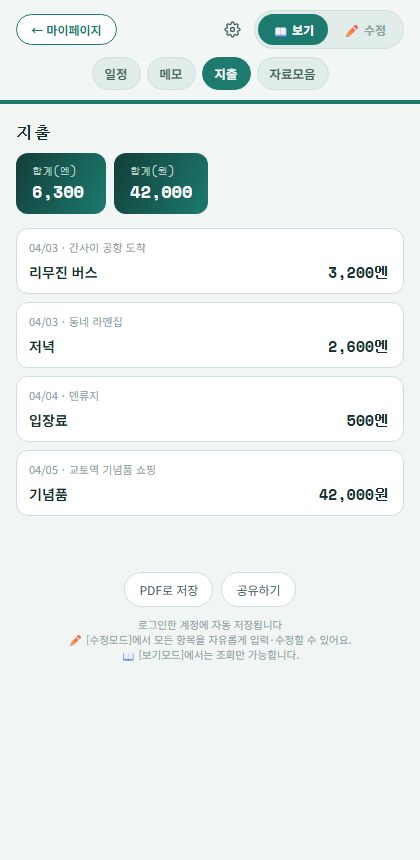
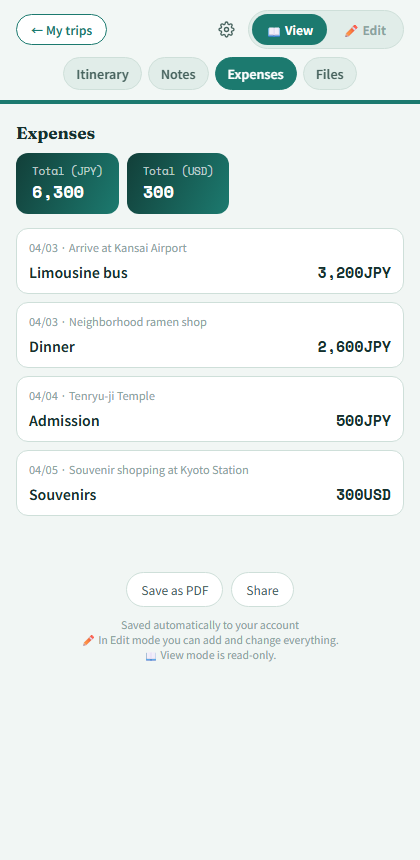
fix: 가이드 버튼 노출 강화, 언어 전환 버그 수정, 영문 데모 화면 전면 교체 + 호버 인터랙션 추가
- 랜딩 화면 "사용 가이드 보기"를 Google 로그인 버튼 옆 동급 버튼으로 격상
- 가이드 사이트 언어 전환 버튼("한국어")이 좁은 화면에서 글자 중간에
  줄바꿈되던 문제 수정 (white-space:nowrap 누락)
- 영문 가이드 화면이 UI만 영어고 내용은 한국어 그대로였던 문제 발견 —
  완전한 영문 데모 데이터(인물명·장소·통화)로 재생성. 겸사겸사 landing
  스크린샷이 실제로는 로그인 후 마이페이지 화면이 캡처되어 있던 버그도
  같이 발견해 실제 로그인 전 화면으로 교체
- 데스크톱 마우스 사용자를 위한 호버 피드백 추가 (버튼·탭·카드·아이콘
  버튼 등) — prefers 터치 기기 오작동 방지를 위해 @media (hover:hover)
  and (pointer:fine)로 한정. 눌림 피드백도 0.97→0.95로 강화

diff --git a/index.html b/index.html
@@ -63,7 +63,16 @@
   @keyframes riseIn{ from{ opacity:0; transform:translateY(6px); } to{ opacity:1; transform:translateY(0); } }
   .just-added{ animation:riseIn var(--dur-m) var(--ease); }
   button:not(:disabled){ transition:transform var(--dur-s) var(--ease); }
-  button:not(:disabled):active{ transform:scale(.97); }
+  button:not(:disabled):active{ transform:scale(.95); }
+  @media (hover:hover) and (pointer:fine){
+    button:not(:disabled):hover{ filter:brightness(.96); }
+    .tab:not(.active):hover{ background:var(--line); }
+    .mode-seg-opt:hover{ background:var(--line); }
+    .icon-btn:hover{ background:var(--paper-2); border-radius:50%; }
+    .mp-card:hover{ border-color:var(--teal); box-shadow:0 6px 16px rgba(0,0,0,.08); }
+    .set-row:hover{ background:var(--paper-2); }
+    .mp-new:hover{ box-shadow:0 4px 12px rgba(0,0,0,.1); transform:translateY(-1px); }
+  }
   *{box-sizing:border-box; -webkit-tap-highlight-color:transparent;}
   html,body{margin:0; padding:0;}
   body{
@@ -469,6 +478,13 @@
   }
   .landing-feats li svg{width:16px; height:16px; flex:none; stroke:#6FE0D0; fill:none; stroke-width:2; stroke-linecap:round; stroke-linejoin:round;}
   .landing-login{border:none; background:#fff; color:#0F1C3E; border-radius:999px; padding:14px 28px; font-size:14px; font-weight:700; cursor:pointer;}
+  .landing-guide-link{
+    display:inline-block; margin-top:14px; padding:10px 22px;
+    border:1px solid rgba(255,255,255,.45); border-radius:999px;
+    color:#fff; font-size:13px; font-weight:600; text-decoration:none;
+    transition:background var(--dur-m) var(--ease), border-color var(--dur-m) var(--ease);
+  }
+  .landing-guide-link:hover{ background:rgba(255,255,255,.1); border-color:rgba(255,255,255,.75); }
   .legal{padding-top:16px; padding-bottom:60px;}
   .legal-title{font-family:'Fraunces',serif; font-size:20px; font-weight:700; color:var(--ink); margin:6px 0 14px;}
   .legal-body{font-size:13px; line-height:1.75; color:var(--ink-soft);}
@@ -676,9 +692,9 @@
     </ul>
     <div class="landing-cta">
       <button id="landingLoginBtn" class="landing-login" data-action="login" data-i18n="landing.login">Google로 계속하기</button>
+      <a class="landing-guide-link" href="guide/" target="_blank" rel="noopener" data-i18n="landing.guideLink">사용 가이드 보기</a>
       <p class="landing-consent"><span data-i18n="landing.consent.pre">계속하면 </span><a data-action="open-legal" data-doc="terms" data-i18n="settings.legal.terms">이용약관</a><span data-i18n="landing.consent.mid"> 및 </span><a data-action="open-legal" data-doc="privacy" data-i18n="settings.legal.privacy">개인정보처리방침</a><span data-i18n="landing.consent.post">에 동의하게 됩니다.</span></p>
       <div class="landing-foot">
-        <a class="landing-guide-link" href="guide/" target="_blank" rel="noopener" data-i18n="landing.guideLink">사용 가이드 보기</a>
         <div class="landing-copy">© 2026 Travel Template</div>
       </div>
     </div>

diff --git a/guide/style.css b/guide/style.css
@@ -5,6 +5,7 @@
   --paper:#F1F6F4; --paper-2:#E1EDE9; --line:#CEDFD9; --card:#FFFFFF;
   --fill-strong:linear-gradient(115deg,#123F39 0%,#1C7A6F 100%);
   --maxw:760px;
+  --dur-m:200ms; --ease:cubic-bezier(.4,0,.2,1);
 }
 *{box-sizing:border-box;}
 html{scroll-behavior:smooth;}
@@ -31,7 +32,7 @@ img{max-width:100%; display:block; border-radius:14px;}
 }
 .g-brand img{width:26px; height:26px; border-radius:6px;}
 .g-nav-right{display:flex; align-items:center; gap:14px; font-size:13px;}
-.g-lang-switch{color:var(--ink-soft); text-decoration:none; border:1px solid var(--line); border-radius:999px; padding:5px 12px;}
+.g-lang-switch{color:var(--ink-soft); text-decoration:none; border:1px solid var(--line); border-radius:999px; padding:5px 12px; white-space:nowrap; flex:none;}
 .g-cta{
   background:var(--fill-strong); color:#fff; text-decoration:none;
   padding:8px 16px; border-radius:999px; font-weight:600; font-size:13px;
@@ -50,6 +51,7 @@ img{max-width:100%; display:block; border-radius:14px;}
 .g-btn{
   display:inline-block; text-decoration:none; padding:12px 22px; border-radius:12px;
   font-weight:700; font-size:14.5px;
+  transition:filter var(--dur-m) var(--ease), border-color var(--dur-m) var(--ease);
 }
 .g-btn-solid{background:var(--fill-strong); color:#fff;}
 .g-btn-ghost{background:var(--card); color:var(--ink); border:1px solid var(--line);}
@@ -58,9 +60,18 @@ img{max-width:100%; display:block; border-radius:14px;}
   display:grid; grid-template-columns:repeat(auto-fit,minmax(200px,1fr)); gap:14px;
   margin:32px 0;
 }
-.g-feat{background:var(--card); border:1px solid var(--line); border-radius:16px; padding:18px;}
+.g-feat{
+  background:var(--card); border:1px solid var(--line); border-radius:16px; padding:18px;
+  transition:border-color var(--dur-m) var(--ease), box-shadow var(--dur-m) var(--ease);
+}
 .g-feat h3{margin:0 0 6px; font-size:15px;}
 .g-feat p{margin:0; color:var(--ink-soft); font-size:13.5px;}
+
+@media (hover:hover) and (pointer:fine){
+  .g-btn:hover{ filter:brightness(.95); }
+  .g-feat:hover{ border-color:var(--teal); box-shadow:0 6px 16px -6px rgba(22,48,45,.18); }
+  .g-theme-card:hover{ border-color:var(--teal); box-shadow:0 6px 16px -6px rgba(22,48,45,.18); }
+}
 
 article.g-article{padding:36px 20px 60px;}
 article.g-article h1{
@@ -87,7 +98,7 @@ article.g-article .g-note{
   display:grid; grid-template-columns:repeat(auto-fit,minmax(140px,1fr)); gap:12px;
   margin:20px 0 28px;
 }
-.g-theme-card{background:var(--card); border:1px solid var(--line); border-radius:14px; overflow:hidden; text-align:center;}
+.g-theme-card{background:var(--card); border:1px solid var(--line); border-radius:14px; overflow:hidden; text-align:center; transition:border-color var(--dur-m) var(--ease), box-shadow var(--dur-m) var(--ease);}
 .g-theme-card img{border-radius:0; display:block; width:100%;}
 .g-theme-card span{display:block; font-size:12.5px; font-weight:700; padding:8px 6px;}
 
